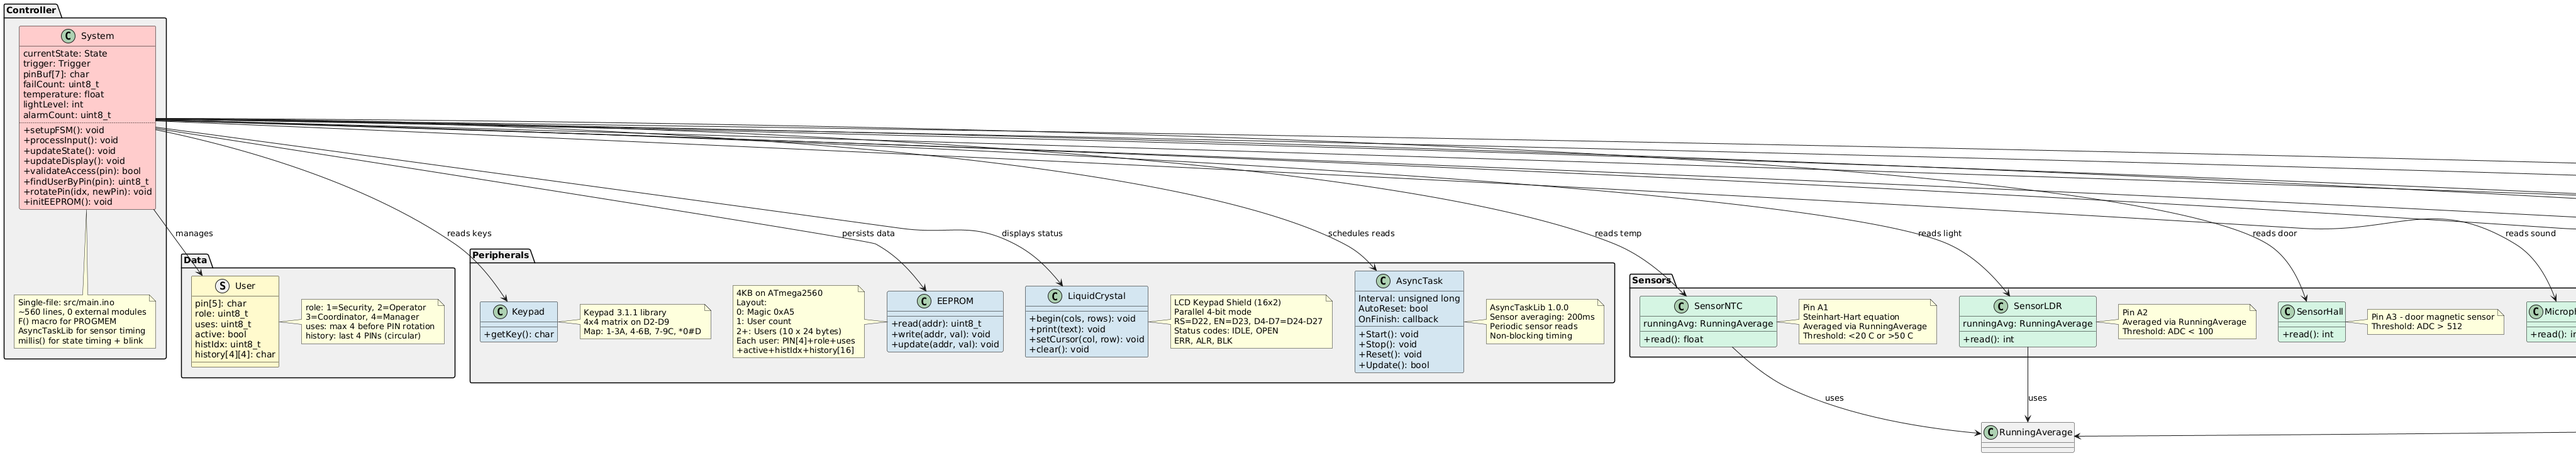
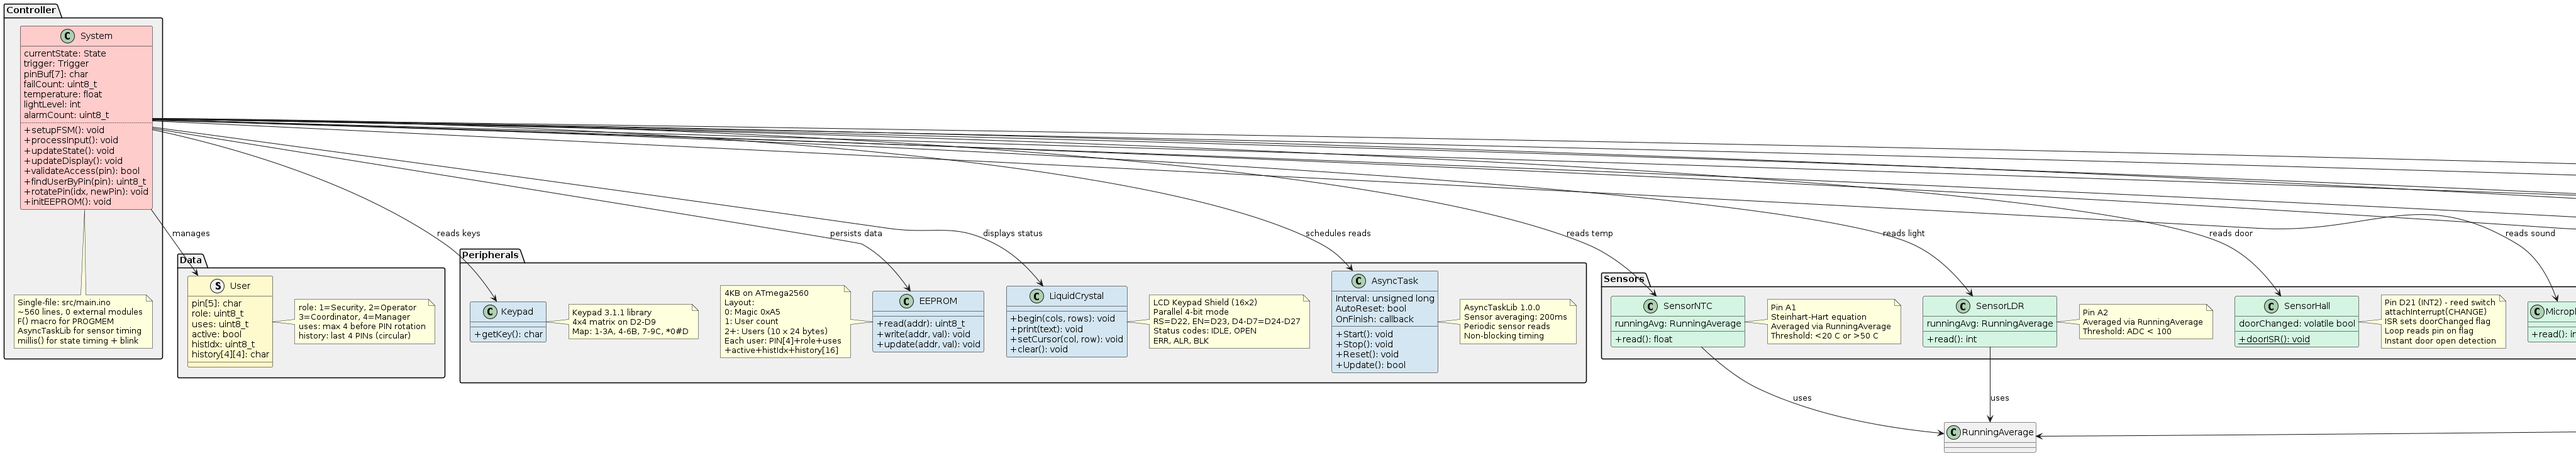
feat(door): implement interrupt-driven door detection on D21 (INT2)
Replace analog polling (KY-035 on A3, every 200ms) with hardware
interrupt via reed switch on D21 (INT2, attachInterrupt CHANGE).

Code changes:
- PIN_HALL_DOOR = 21 with INPUT_PULLUP + attachInterrupt
- doorISR() sets volatile doorChanged flag (minimal ISR)
- Top of updateState() reads flag -> updates hallDoorOpen
- INTRUSION_MONITOR: level-based hallDoorOpen check
- ALARM: edge-triggered door events (only physical CHANGE counted)
- Removed analogRead(PIN_HALL), HALL_OPEN threshold, hallVal var
- Mic, NTC, LDR analog polling unchanged

Docs updated:
- classes.puml: SensorHall now shows volatile bool + ISR
- sequence-alarm.puml: full redesign (ISR -> flag -> edge counting)
- PRD.md: KY-035 -> Reed switch D21, RF-08 updated
- README.md: pin table, thresholds, memory, code structure

diff --git a/docs/PRD.md b/docs/PRD.md
@@ -34,7 +34,7 @@ The system is implemented on the **ATmega2560** microcontroller and organized as
 | Buzzer | Audible alarm for excessive attempts or intrusion |
 | LED | Visual status indicator (red flashing per mode) |
 | Sound Sensor KY-037 | Sound/intrusion detection via microphone |
-| Analog Hall Sensor KY-035 | Door status monitoring (open/closed) |
+| Magnetic Reed Switch (D21) | Door status monitoring via interrupt (D21, INT2) |
 | Analog Temperature Sensor KY-013 | Ambient temperature reading |
 | Photoresistor Module KY-018 | Ambient light level reading |
 | Potentiometer | LCD contrast adjustment |
@@ -136,7 +136,7 @@ The **MONITOR AMBIENTAL** state uses the **RunningAverage Library** to average s
 | Temperature | KY-013 | < 20°C → activate heating/ventilation |
 | Light | KY-018 | < 100 (ADC units) → activate lighting |
 | Sound | KY-037 | Configurable threshold → intrusion detection |
-| Magnetic field (door) | KY-035 | State change → door opened without authorization |
+| Magnetic field (door) | Reed switch D21 (INT2) | Interrupt (CHANGE) → immediate door open detection |
 
 > The number of people present may influence thermal comfort thresholds (to be defined during implementation).
 
@@ -173,7 +173,7 @@ LCD contrast is adjusted via the **potentiometer**.
 | RF-05 | The servo motor unlocks the lock for a programmed time (2 s) and returns to INICIO state. |
 | RF-06 | The system automatically returns to INICIO state after any completed action. |
 | RF-07 | Access time windows are defined per role in code. |
-| RF-08 | The Hall sensor (KY-035) monitors the physical door status. |
+| RF-08 | The reed switch on D21 (INT2) monitors door status via hardware interrupt (attachInterrupt). |
 | RF-09 | The system manages user registration and role assignment stored in EEPROM. |
 | RF-10 | Keys are forcibly renewed every 4 uses; no reuse allowed. |
 | RF-11 | The sound sensor (KY-037) detects intrusion events via noise. |
